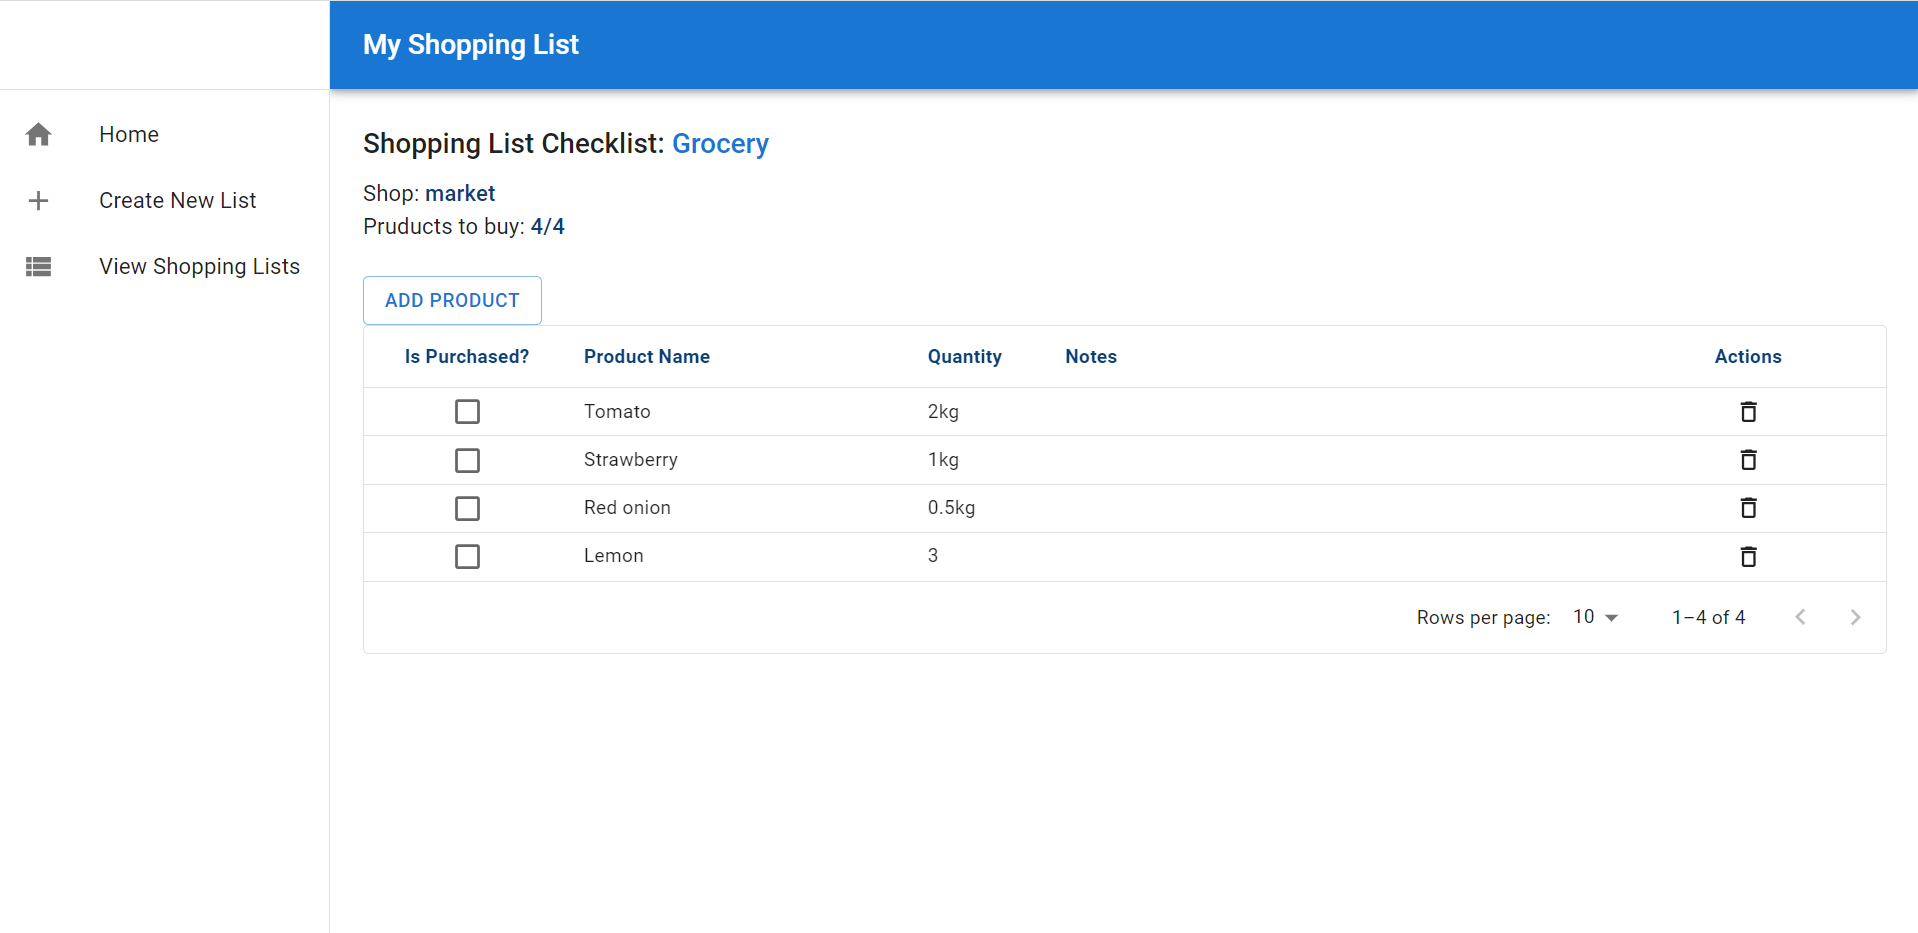
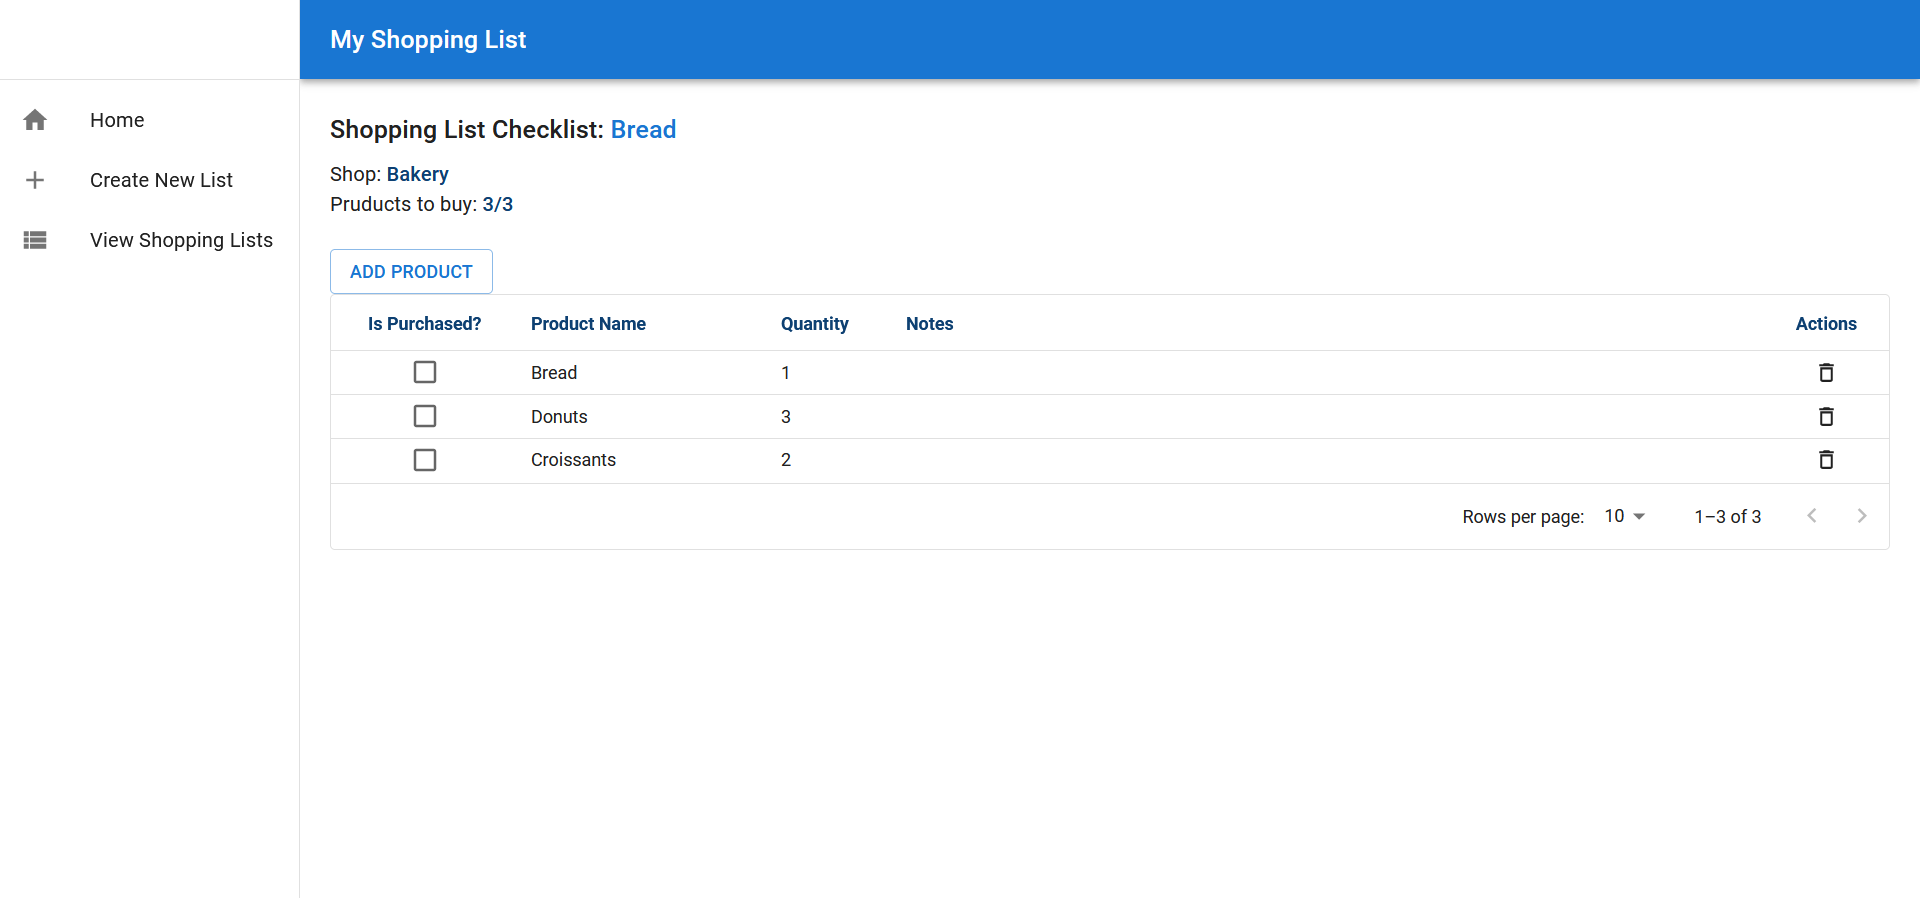
changed README.md and sample data in db

diff --git a/server/db/ShoppingList.ts b/server/db/ShoppingList.ts
@@ -20,13 +20,20 @@ export const shoppingLists: ShoppingListProp[] = [
     id: "0",
     title: "Weekly shopping",
     shop: "Lidl",
-    createdAt: new Date(2023, 0, 1, 11, 0).valueOf(),
+    createdAt: new Date(2023, 8, 9, 11, 0).valueOf(),
     products: [
       {
-        id: "1",
+        id: "0",
         productName: "apple",
         quantity: "1kg",
         notes: "high priority",
+        isPurchased: false,
+      },
+      {
+        id: "1",
+        productName: "honey",
+        quantity: "",
+        notes: "",
         isPurchased: false,
       },
       {
@@ -43,25 +50,67 @@ export const shoppingLists: ShoppingListProp[] = [
         notes: "",
         isPurchased: true,
       },
-    ],
-  },
-  {
-    id: "1",
-    title: "Birthday shopping",
-    shop: "Lidl",
-    createdAt: new Date(2023, 0, 3, 11, 0).valueOf(),
-    products: [
       {
-        id: "1",
-        productName: "Salmon filet",
+        id: "4",
+        productName: "rice",
+        quantity: "1",
+        notes: "",
+        isPurchased: false,
+      },
+      {
+        id: "5",
+        productName: "eggs",
+        quantity: "10",
+        notes: "size L",
+        isPurchased: false,
+      },
+      {
+        id: "6",
+        productName: "brown sugar",
         quantity: "1kg",
         notes: "",
         isPurchased: false,
       },
       {
+        id: "7",
+        productName: "mustard",
+        quantity: "1",
+        notes: "",
+        isPurchased: false,
+      },
+      {
+        id: "8",
+        productName: "salmon filet",
+        quantity: "1kg",
+        notes: "",
+        isPurchased: false,
+      },
+    ],
+  },
+  {
+    id: "1",
+    title: "Bread",
+    shop: "Bakery",
+    createdAt: new Date(2023, 8, 10, 11, 0).valueOf(),
+    products: [
+      {
+        id: "0",
+        productName: "Bread",
+        quantity: "1",
+        notes: "",
+        isPurchased: false,
+      },
+      {
+        id: "1",
+        productName: "Donuts",
+        quantity: "3",
+        notes: "",
+        isPurchased: false,
+      },
+      {
         id: "2",
-        productName: "Potato",
-        quantity: "3kg",
+        productName: "Croissants",
+        quantity: "2",
         notes: "",
         isPurchased: false,
       },
@@ -69,16 +118,9 @@ export const shoppingLists: ShoppingListProp[] = [
   },
   {
     id: "2",
-    title: "Pizza",
-    shop: "Lidl",
-    createdAt: new Date(2023, 0, 7, 11, 0).valueOf(),
-    products: [],
-  },
-  {
-    id: "3",
-    title: "Grocery",
-    shop: "market",
-    createdAt: new Date(2023, 0, 10, 11, 0).valueOf(),
+    title: "Fruits and Vegetables",
+    shop: "Greengrocer's",
+    createdAt: new Date(2023, 8, 8, 11, 0).valueOf(),
     products: [
       {
         id: "1",
@@ -96,7 +138,7 @@ export const shoppingLists: ShoppingListProp[] = [
       },
       {
         id: "3",
-        productName: " Red onion",
+        productName: "Red onion",
         quantity: "0.5kg",
         notes: "",
         isPurchased: false,

diff --git a/README.md b/README.md
@@ -44,9 +44,9 @@ The server-side was built with Node and Express.
 
    ```sh
    cd client
-   npm run dev
-   cd server
    npm run start
+   cd server
+   npm run dev
    ```
 
    This command will launch 2 applications which will be available at:
